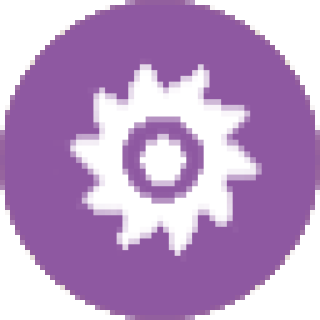
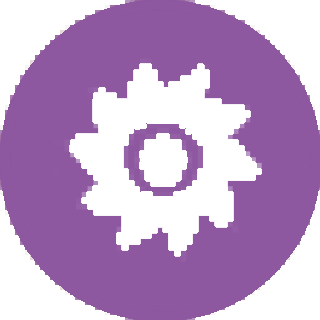
Correção de Selamento
Corrigido um bug em que o status de estar selado nunca era removido do jogador, devido a ausência de uma mecânica para sair da prisão, fazendo com que o jogo travasse por conta do jogador tecnicamente ainda estar selado.
Foram também levemente melhorados os ícones das cartas da infecção e das fontes termais.

diff --git a/script.js b/script.js
@@ -1234,6 +1234,7 @@ function passarVez() {
     rolarDados.style.cursor = "pointer";
     jogadorAtual = (jogadorAtual + 1) % jogadores.length;
     atualizarVez();
+    verificarSelado();
 }
 
 // Função para exibir mensagens
@@ -1412,9 +1413,6 @@ function executarAcao(jogador) {
                 simbolo.src = "imagens/icones_cartas/icone_infeccao.png";
             } else {
                 simbolo.src = "imagens/icones_cartas/icone_fontes.png";
-                if (jogador.posicao > 20) {
-                    jogador.geo += 2000;
-                }
             }
             elementoTexto.textContent = texto;
             modalG.style.display = "block";
@@ -1433,6 +1431,7 @@ function executarAcao(jogador) {
 
 function executarCarta() {
     const jogador = jogadores[jogadorAtual];
+    const casaAtual = propriedades[jogador.posicao];
     const modalG = document.getElementById("modal_cartas");
     if (carta.tipo === "movimentoEspecial") {
         if (carta.id === 1) {
@@ -1766,14 +1765,30 @@ function selarJogador(jogador) {
     atualizarVez();
     document.getElementById("passar_vez").className = "btn-passar-vez-inativo";
     document.getElementById("rolar_dados").style.cursor = "pointer";
+    verificarSelado();
 }
 
 // Função para verificar se um jogador está selado
 
 function verificarSelado() {
-    if (jogadores[jogadorAtual].selado === true) {
-
+    const jogador = jogadores[jogadorAtual];
+    if (jogador.selado === true) {
+        if (idiomaAtual === "pt") {
+            exibirMensagem(`${jogador.nome} está selado e perdeu o turno! (Modo temporário)`);
+        } else {
+            exibirMensagem(`${jogador.nome} is sealed and lost the turn! (Temporary mode)`);
+        }
+        
+        // Libera o jogador para o próximo turno (remova isso quando implementar a prisão oficial)
+        jogador.selado = false;
+        
+        // Ajusta os botões para o próximo passar a vez corretamente
+        document.getElementById("passar_vez").className = "btn-passar-vez-ativo";
+        document.getElementById("rolar_dados").style.cursor = "not-allowed";
+        
+        return true; // Indica que o jogador estava selado
     }
+    return false;
 }
 
 atualizarCampos();
